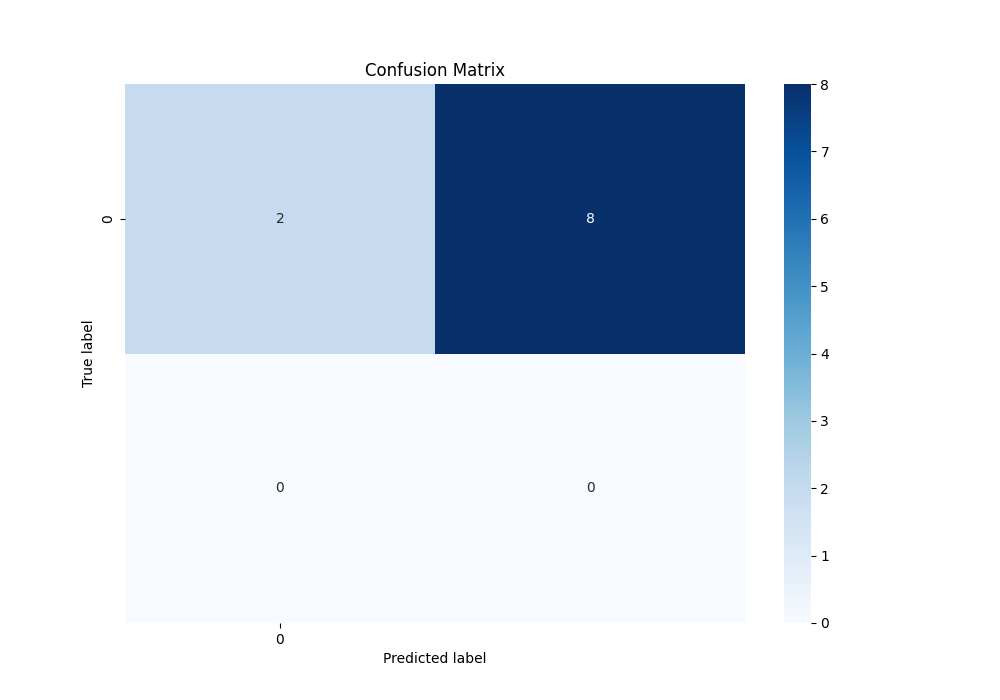
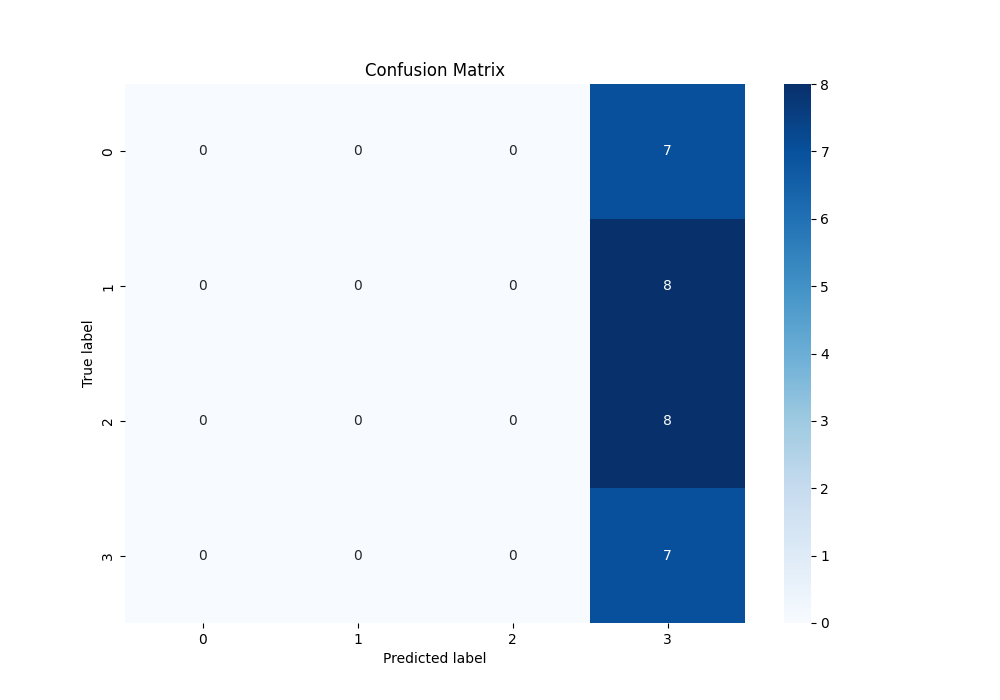
reviewd server.Dockerfile and train.Dockerfile

Changed region(s): [[0.124, 0.12, 0.744, 0.9]]

diff --git a/model_dev/utils/metrics.py b/model_dev/utils/metrics.py
@@ -1,6 +1,8 @@
 from sklearn.metrics import accuracy_score, precision_recall_fscore_support, confusion_matrix
 import seaborn as sns
 import numpy as np
+import matplotlib.pyplot as plt
+import os
 
 # Function to compute metrics
 def compute_metrics(eval_preds):
@@ -13,6 +15,7 @@ def compute_metrics(eval_preds):
     # Calculate accuracy, precision, recall, and F1 score
     accuracy = accuracy_score(labels, predictions)
     precision, recall, f1, _ = precision_recall_fscore_support(labels, predictions, average='weighted')
+    
     conf_matrix = confusion_matrix(labels,predictions)
     # Plot confusion matrix
     plt.figure(figsize=(10, 7))
@@ -36,12 +39,8 @@ def compute_metrics(eval_preds):
     }
 
 
-import numpy as np
-import matplotlib.pyplot as plt
-from sklearn.metrics import accuracy_score, precision_recall_fscore_support, confusion_matrix
-import os
-
-def compute_metrics_n(eval_preds, output_dir="./results"):
+    # Function to compute metrics
+def eval_compute_metrics(eval_preds):
     # Unpack the logits and labels from eval_preds
     logits, labels = eval_preds  # logits shape: (num_instances, num_classes)
     
@@ -51,41 +50,26 @@ def compute_metrics_n(eval_preds, output_dir="./results"):
     # Calculate accuracy, precision, recall, and F1 score
     accuracy = accuracy_score(labels, predictions)
     precision, recall, f1, _ = precision_recall_fscore_support(labels, predictions, average='weighted')
-
-    # Generate confusion matrix
-    conf_matrix = confusion_matrix(labels, predictions)
-
-    # Plot confusion matrix using plt.imshow
+    
+    conf_matrix = confusion_matrix(labels,predictions)
+    # Plot confusion matrix
     plt.figure(figsize=(10, 7))
-    plt.imshow(conf_matrix, interpolation='nearest', cmap="Blues")
+    sns.heatmap(conf_matrix, annot=True, fmt="d", cmap="Blues", xticklabels=np.unique(labels), yticklabels=np.unique(labels))
     plt.title("Confusion Matrix")
-    plt.colorbar()  # Add a colorbar to the side
-    
-    # Set ticks and labels for x and y axes
-    classes = np.unique(labels)
-    tick_marks = np.arange(len(classes))
-    plt.xticks(tick_marks, classes, rotation=45)
-    plt.yticks(tick_marks, classes)
-    
-    # Annotate the confusion matrix with counts
-    for i in range(conf_matrix.shape[0]):
-        for j in range(conf_matrix.shape[1]):
-            plt.text(j, i, str(conf_matrix[i, j]), horizontalalignment="center", color="white" if conf_matrix[i, j] > conf_matrix.max() / 2 else "black")
-
     plt.ylabel('True label')
     plt.xlabel('Predicted label')
-
+    
     # Save confusion matrix as an image
-    os.makedirs(output_dir, exist_ok=True)
-    confusion_matrix_path = os.path.join(output_dir, "confusion_matrix.png")
+    os.makedirs("./model_dev/artifacts", exist_ok=True)
+    confusion_matrix_path = os.path.join("./model_dev/artifacts", "confusion_matrix.png")
     plt.savefig(confusion_matrix_path)
     plt.close()
-
-    # Return metrics
+    # Afficher la matrice de confusion
+    #plt.show()
     return {
         'accuracy': accuracy,
         'precision': precision,
         'recall': recall,
-        'f1': f1,
-        'confusion_matrix_path': confusion_matrix_path  # Path to saved confusion matrix
+        'f1': f1
     }
+

diff --git a/app/inference.py b/app/inference.py
@@ -1,19 +1,16 @@
 import mlflow
 from transformers import pipeline
 
-def predict(prompt, path_to_model="/src/runs/best_model"):
+def predict(prompt):
     """
     Function to make predictions using the loaded model
     """
     # Create a text classification pipeline using the specified model
     
-    run_id = "024e1d8189eb4c5abe4bc5107897b3f3"
-    model_path = f'mlruns/artifacts/{run_id}/text-classifier'
-    model = mlflow.pyfunc.load_model(model_path )
+    RUN_ID = "53ab23287a0b4a7090b645a93e44c4f7"
+    model_path = f'/mlflow/artifacts/2/{RUN_ID}/artifacts/text-classifier'
+    model = mlflow.pyfunc.load_model(model_path)
     output = model.predict(prompt)
-    pipe = pipeline("text-classification", model=path_to_model)
-    # Make a prediction
-    output = pipe(prompt)
     
     # Return the prediction result
-    return output.loc[0,"labels"]
+    return output.loc[0,"label"]

diff --git a/model_dev/eval.py b/model_dev/eval.py
@@ -15,9 +15,7 @@ model = AutoModelForSequenceClassification.from_pretrained(model_name, num_label
 tokenizer = AutoTokenizer.from_pretrained(model_name)
 
 # Load the dataset from disk and shuffle it
-dataset = load_from_disk("./model_dev/data/inshort_dataset").shuffle(seed=42).select(range(10))
-print(dataset)
-
+dataset = load_from_disk("./model_dev/data/inshort_dataset").shuffle(seed=42).select(range(2))
 
 ### Processing Labels
 labels = dataset.unique("labels") # Get a list of unique labels

diff --git a/model_dev/train.py b/model_dev/train.py
@@ -106,7 +106,7 @@ if __name__ == '__main__':
 
         os.makedirs(OUTPUT_MODEL_DIR, exist_ok=True)
         trainer.save_model(OUTPUT_MODEL_DIR)
-        mlflow.log_artifact(OUTPUT_MODEL_DIR,"M")
+
         ### Get model signature ready
         classification_pipeline = pipeline(model=OUTPUT_MODEL_DIR, task='text-classification')
         input_example = ["Facebook is a huge platform"]
